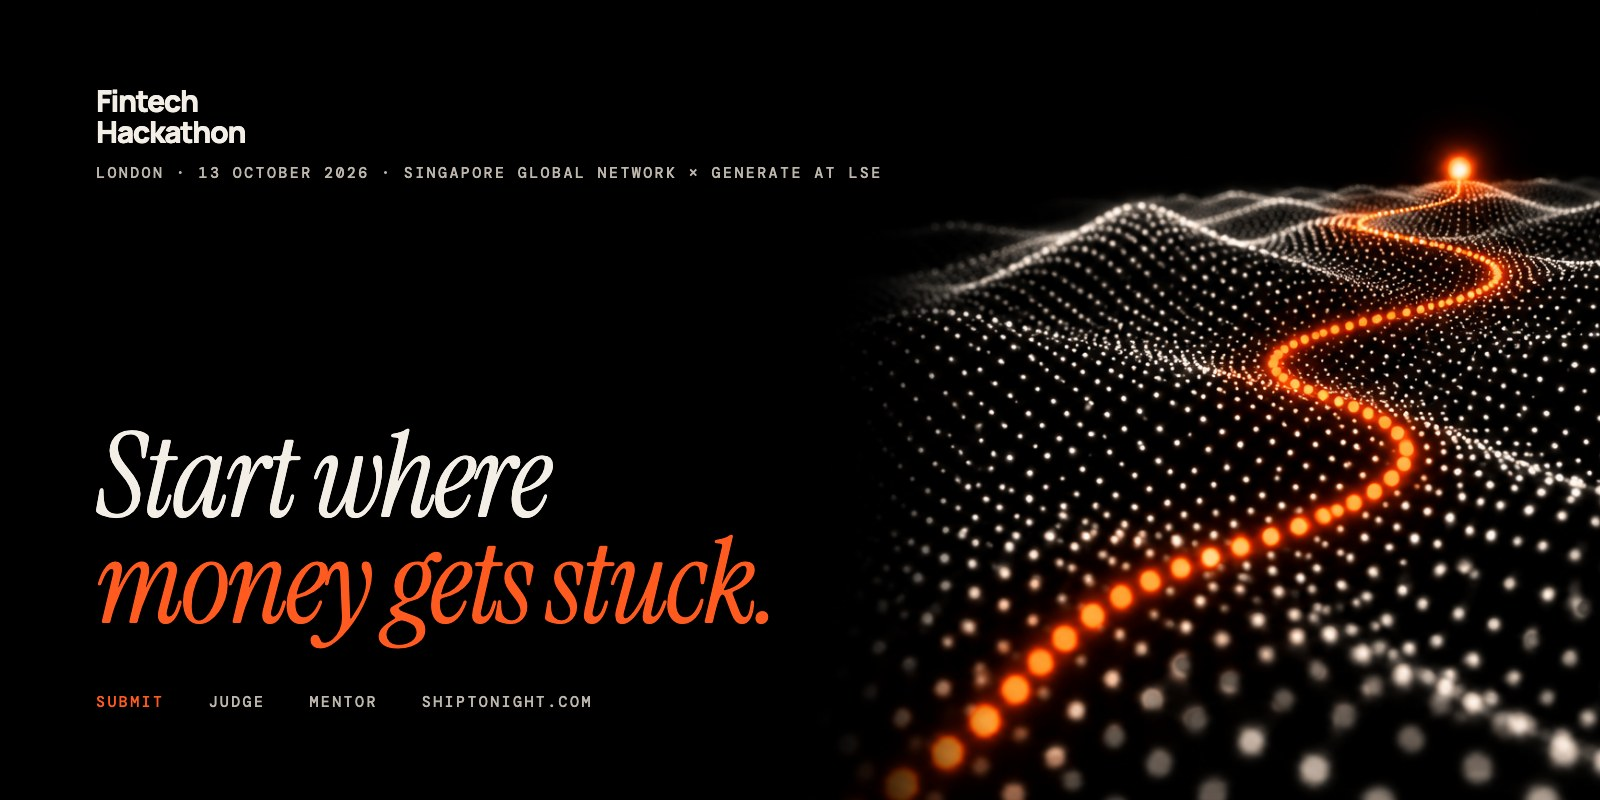
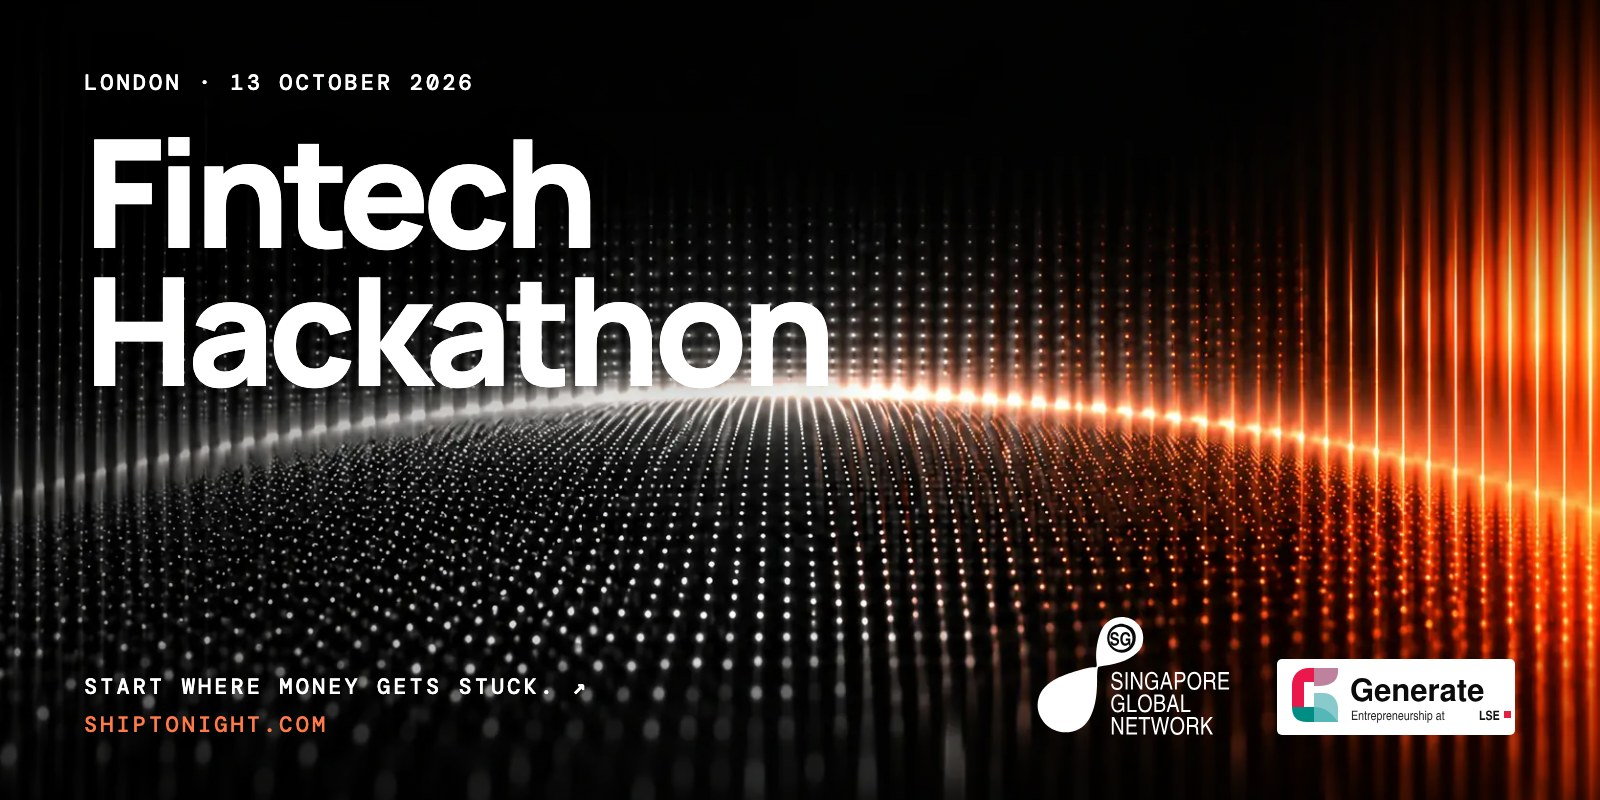
README cover: use the original Luma hero art and bold type
The editorial serif version lost what made the Luma cover work: full-bleed dot
wave, the white-to-orange light sweep and a heavy sans headline.

diff --git a/docs/cover.html b/docs/cover.html
@@ -1,19 +1,25 @@
 <!doctype html><html><head><meta charset="utf-8">
-<link href="https://fonts.googleapis.com/css2?family=DM+Mono:wght@400;500&family=Instrument+Serif:ital@0;1&family=Manrope:wght@600;800&display=block" rel="stylesheet">
+<link href="https://fonts.googleapis.com/css2?family=DM+Mono:wght@400;500&family=Manrope:wght@600;700;800&display=block" rel="stylesheet">
 <style>
 *{margin:0;box-sizing:border-box}
-body{width:1600px;height:800px;background:#000 url('cover-art-2.png') right -40px center/auto 118% no-repeat;color:#f3eee6;font-family:Manrope,sans-serif;overflow:hidden;position:relative}
-body:after{content:"";position:absolute;inset:0;background:linear-gradient(90deg,#000 0%,#000 34%,rgba(0,0,0,0) 62%)}
-.c{position:relative;z-index:1;padding:86px 96px;height:100%;display:flex;flex-direction:column}
-.wm{font-weight:800;font-size:30px;letter-spacing:-.045em;line-height:1.02}
-.l{font:500 15px/1.6 "DM Mono",monospace;letter-spacing:.16em;text-transform:uppercase;color:#bdb6ac;margin-top:14px}
-.o{color:#ff5a1f}
-h1{font:italic 400 118px/.9 "Instrument Serif",serif;letter-spacing:-.025em;margin-top:auto}
-h1 span{color:#ff5a1f}
-.foot{display:flex;gap:44px;margin-top:40px}
-</style></head><body><div class="c">
-<div class="wm">Fintech<br>Hackathon</div>
-<p class="l">London · 13 October 2026 · Singapore Global Network × Generate at LSE</p>
-<h1>Start where<br><span>money gets stuck.</span></h1>
-<div class="foot"><p class="l o">Submit</p><p class="l">Judge</p><p class="l">Mentor</p><p class="l">shiptonight.com</p></div>
-</div></body></html>
+body{width:1600px;height:800px;background:#000;color:#fff;font-family:Manrope,sans-serif;overflow:hidden;position:relative}
+.art{position:absolute;inset:0;background:url('../public/img/hero.webp') center 58%/cover no-repeat}
+.art:after{content:"";position:absolute;inset:0;background:linear-gradient(180deg,rgba(0,0,0,.55) 0%,rgba(0,0,0,0) 42%,rgba(0,0,0,0) 78%,rgba(0,0,0,.45) 100%),linear-gradient(90deg,rgba(0,0,0,.45) 0%,rgba(0,0,0,0) 45%)}
+.c{position:relative;z-index:1;height:100%;padding:72px 84px 64px;display:flex;flex-direction:column}
+.l{font:500 22px/1 "DM Mono",monospace;letter-spacing:.14em;text-transform:uppercase}
+h1{font-weight:800;font-size:150px;line-height:.92;letter-spacing:-.045em;margin-top:28px;text-shadow:0 6px 40px rgba(0,0,0,.35)}
+.bottom{margin-top:auto;display:flex;justify-content:space-between;align-items:flex-end}
+.logos{display:flex;align-items:flex-end;gap:28px}
+.logos .sgn{height:120px}.logos .gen{height:78px}
+.url{color:#ff7a48;margin-top:16px}
+</style></head><body>
+<div class="art"></div>
+<div class="c">
+  <p class="l">London · 13 October 2026</p>
+  <h1>Fintech<br>Hackathon</h1>
+  <div class="bottom">
+    <div><p class="l">Start where money gets stuck. ↗</p><p class="l url">shiptonight.com</p></div>
+    <div class="logos"><img class="sgn" src="../public/sgn-logo.svg" alt=""><img class="gen" src="../public/generate-logo.svg" alt=""></div>
+  </div>
+</div>
+</body></html>
